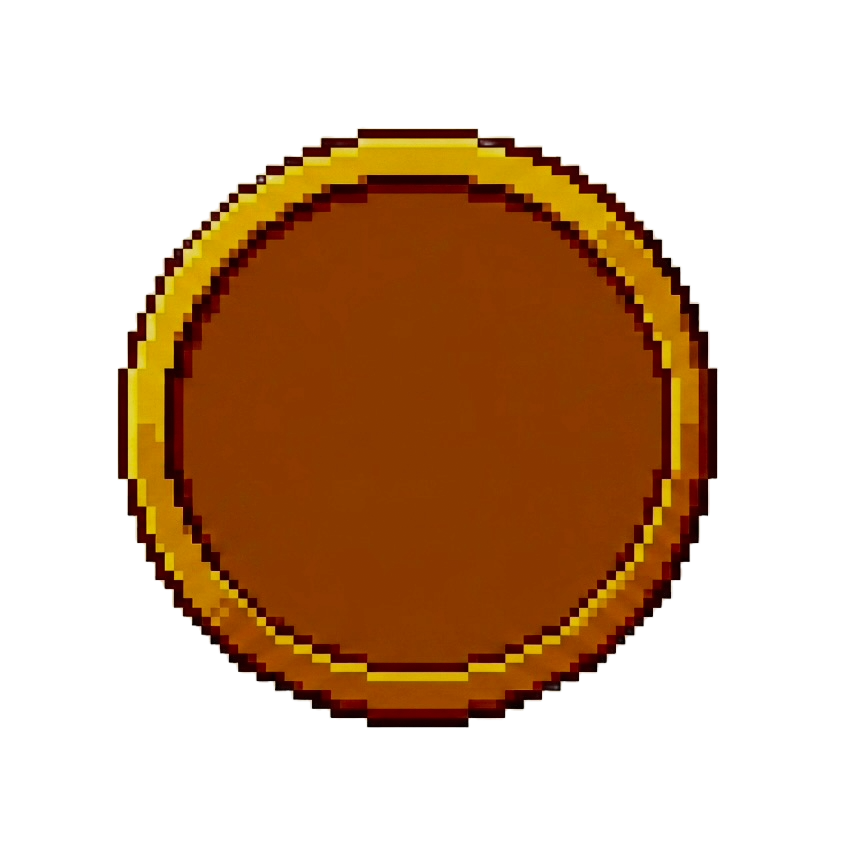
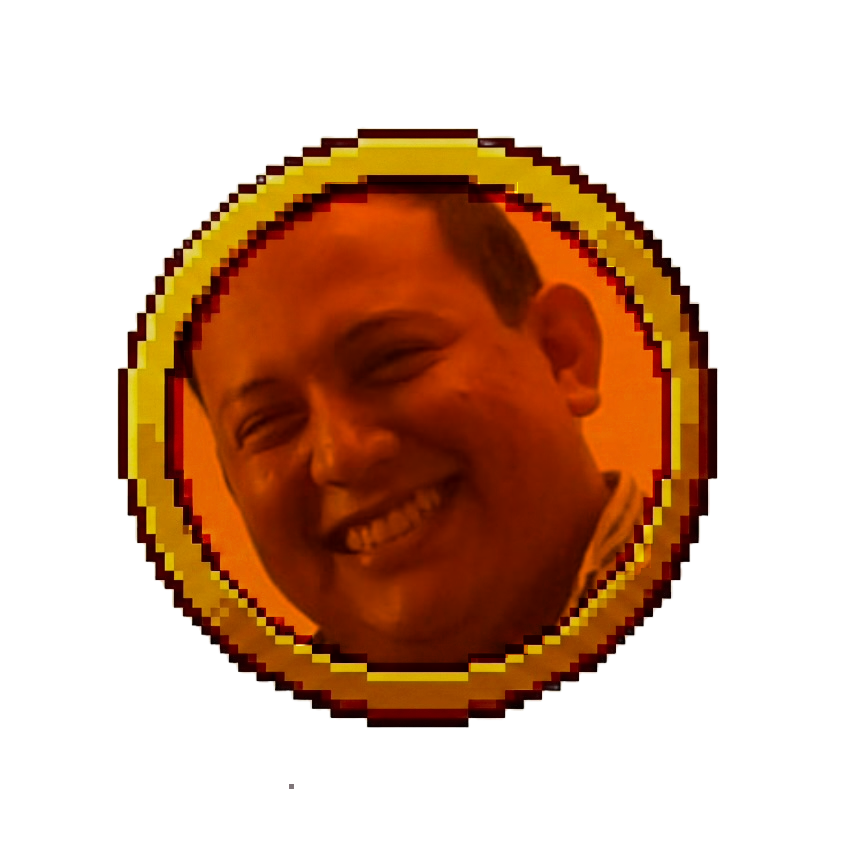
Imagen de moneda actualizada

Changed region(s): [[0.1855, 0.2164, 0.8038, 0.8038]]

diff --git a/juego.c b/juego.c
@@ -8,8 +8,8 @@
 
 int camX = 0;
 int camY = 0;
-int jugadorX = 2;
-int jugadorY = 2;
+int jugadorX = 1;
+int jugadorY = 1;
 int nivel = 0;
 int mapSize = 0;
 int celdasLibres = 0;
@@ -82,7 +82,7 @@ void estadoJuego(){
                 llavesObtNivel++;
                 llavesUtilNivel++;
             }else if(detectarObjeto(mapActual, mapSize, destinoY, destinoX, 'D')){ //Si es una puerta
-                if(llavesObtNivel < 1) actualiMapa = false; //Si no tiene una llave para abrir la puerta entonces no habra movimiento y el mapa no se actualizará
+                if(llavesUtilNivel < 1) actualiMapa = false; //Si no tiene una llave para abrir la puerta entonces no habra movimiento y el mapa no se actualizará
                 else llavesUtilNivel--; //Si tiene una llave para abrir la puerta entonces se consume la llave y se actualiza el mapa con el movimiento
             }else if(detectarObjeto(mapActual, mapSize, destinoY, destinoX, 'E')){ //Si es una salida
                 nivelesComp++;
@@ -144,11 +144,12 @@ void llamarDibujar(bool *status){
         ClearBackground(BLACK);
         DrawText("FELICIDADES!!!", 200, 150, 40, YELLOW);
         DrawText(TextFormat("NIVEL %d COMPLETADO", nivel), 120, 220, 20, WHITE);
-        DrawText(TextFormat("MONEDAS: %d/%d", monedasObtNivel, monedas_Nivel), 200, 280, 20, WHITE);
-        DrawText(TextFormat("LLAVES: %d/%d", llavesObtNivel, llaves_Nivel), 200, 320, 20, WHITE);
-        DrawText(TextFormat("PASOS: %d", pasosNivel), 200, 360, 20, WHITE);
+        DrawText(TextFormat("MONEDAS: %d/%d", monedasObtNivel, monedas_Nivel), 140, 280, 20, WHITE);
+        DrawText(TextFormat("LLAVES: %d/%d", llavesObtNivel, llaves_Nivel), 140, 320, 20, WHITE);
+        DrawText(TextFormat("PASOS: %d", pasosNivel), 140, 360, 20, WHITE);
+         DrawText(TextFormat("CASILLAS DISPONIBLES PARA MOVERSE: %d", celdasLibres), 140, 400, 20, WHITE);
         if(nivel < 3){
-            DrawText("Presiona 'ENTER' para ir al siguiente nivel", 120, 440, 20, WHITE);
+            DrawText("Presiona 'ENTER' para ir al siguiente nivel", 120, 480, 20, WHITE);
         }else {
             DrawText("Presiona 'ENTER' para ver tu puntaje final", 120, 440, 20, WHITE);
         }
@@ -181,8 +182,8 @@ void cambiarNivel(){
     iniciandoNivel = true;
     camX = 0;
     camY=0;
-    jugadorX=2;
-    jugadorY=2;
+    jugadorX=1;
+    jugadorY=1;
     monedasObtNivel = 0;
     pasosNivel = 0;
     llavesObtNivel = 0;